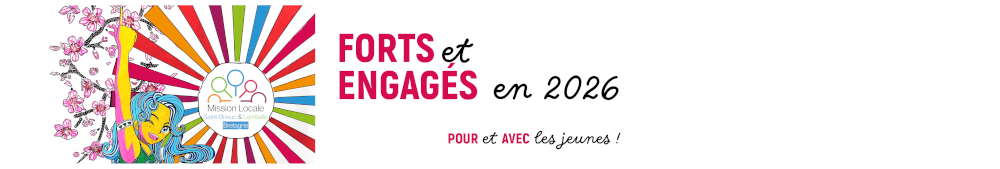
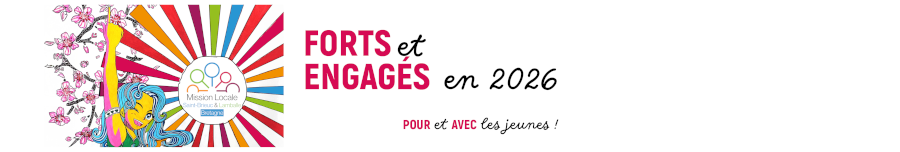
Add files via upload

diff --git a/22STB/22STB-template-signature.html b/22STB/22STB-template-signature.html
@@ -86,6 +86,6 @@
 
 
     <a href="">
-                <img src="https://github.com/Mission-Locale-de-Bretagne/Signatures/blob/main/22STB/carte _voeux_2026_v2.png?raw=true" width="1000" height="169">
+                <img src="https://github.com/Mission-Locale-de-Bretagne/Signatures/blob/main/22STB/carte _voeux_2026_v2.png?raw=true" width="900" height="152">
     </a>
     </a>
